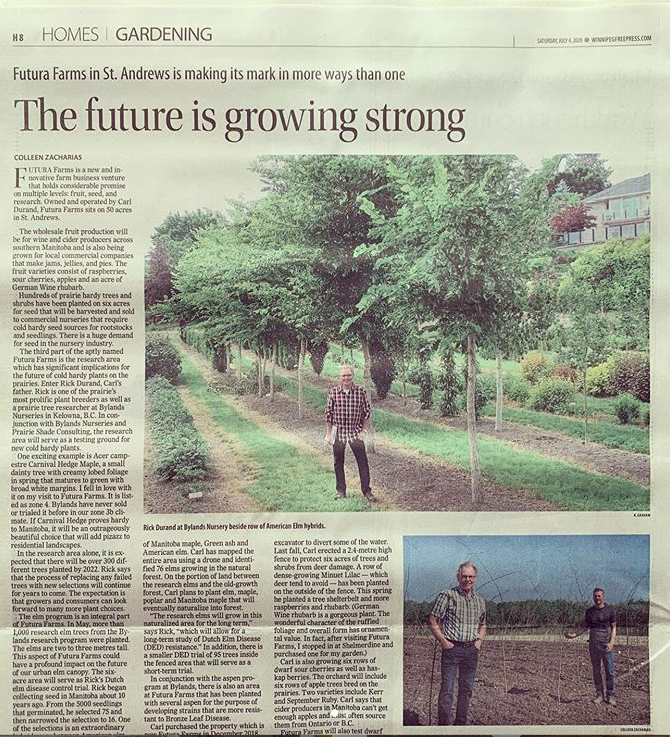
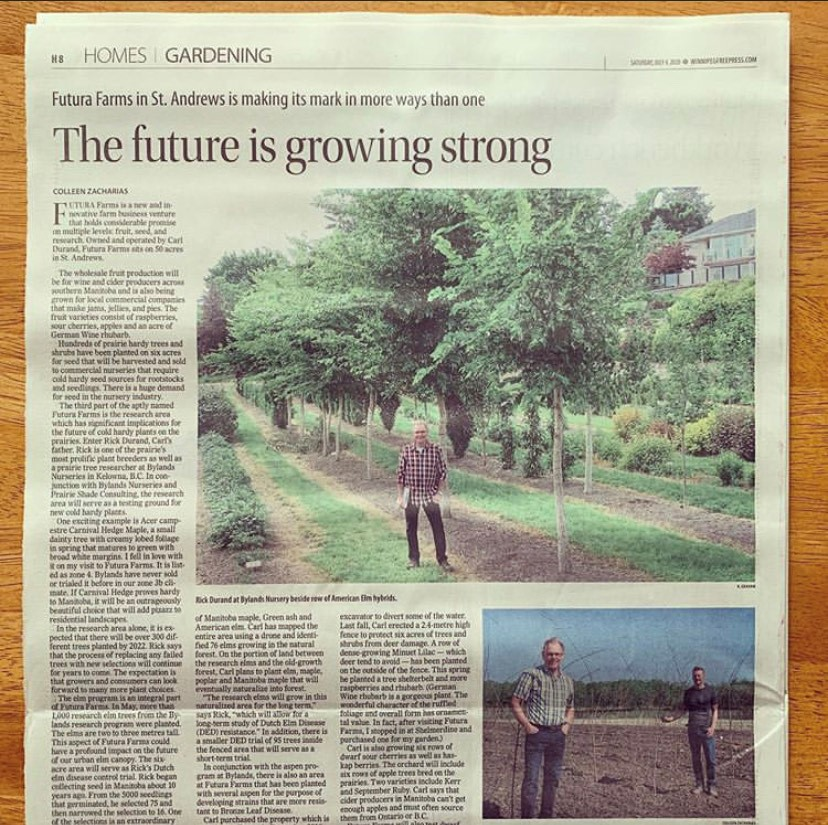
Instagram update
Added 10th instagram photo to photo section

diff --git a/photos.html b/photos.html
@@ -57,15 +57,16 @@
         <div class="main_company_logo">Photos</div>                        
         
         <div class="row" data-toggle="modal" data-target="#myModal">
-	        <img href="#myGallery" data-slide-to="0" src="./res/img/instagram/9.png"/> 
-	        <img href="#myGallery" data-slide-to="1" src="./res/img/instagram/8.png"/> 
-	        <img href="#myGallery" data-slide-to="2" src="./res/img/instagram/7.png"/> 
-	        <img href="#myGallery" data-slide-to="3" src="./res/img/instagram/6.png"/>
-	        <img href="#myGallery" data-slide-to="4" src="./res/img/instagram/5.png"/>
-	        <img href="#myGallery" data-slide-to="5" src="./res/img/instagram/4.png"/>
-	        <img href="#myGallery" data-slide-to="6" src="./res/img/instagram/3.png"/>        
-          	<img href="#myGallery" data-slide-to="7" src="./res/img/instagram/2.png"/>
-          	<img href="#myGallery" data-slide-to="8" src="./res/img/instagram/1.png"/>                 
+		<img href="#myGallery" data-slide-to="0" src="./res/img/instagram/10.png"/> 
+	        <img href="#myGallery" data-slide-to="1" src="./res/img/instagram/9.png"/> 
+	        <img href="#myGallery" data-slide-to="2" src="./res/img/instagram/8.png"/> 
+	        <img href="#myGallery" data-slide-to="3" src="./res/img/instagram/7.png"/> 
+	        <img href="#myGallery" data-slide-to="4" src="./res/img/instagram/6.png"/>
+	        <img href="#myGallery" data-slide-to="5" src="./res/img/instagram/5.png"/>
+	        <img href="#myGallery" data-slide-to="6" src="./res/img/instagram/4.png"/>
+	        <img href="#myGallery" data-slide-to="7" src="./res/img/instagram/3.png"/>        
+          	<img href="#myGallery" data-slide-to="8" src="./res/img/instagram/2.png"/>
+          	<img href="#myGallery" data-slide-to="9" src="./res/img/instagram/1.png"/>                 
         </div>        
         
         <!--begin modal window-->
@@ -99,6 +100,13 @@
 
 	        <div class="carousel-inner">
  		  <div class="carousel-item active"> 
+		    <img src="./res/img/instagram/10.png" class="d-block w-100" alt="Winnipeg Free Press Article">
+                    <div class="carousel-caption carousel_caption_bg" style="">
+		      <p>Check out the full page article on Futura Farms by Colleen Zacharias in the Winnipeg Free Press<a href="https://homes.winnipegfreepress.com/winnipeg-real-estate-articles/content-id-571625912"> here</a>!</p>
+                    </div>
+                  </div>
+
+		<div class="carousel-item"> 
 		    <img src="./res/img/instagram/9.png" class="d-block w-100" alt="Futura Business Cards">
                     <div class="carousel-caption carousel_caption_bg" style="">
 		      <p>Our new logo designed by @hillarygracedesign #supportlocal</p>
